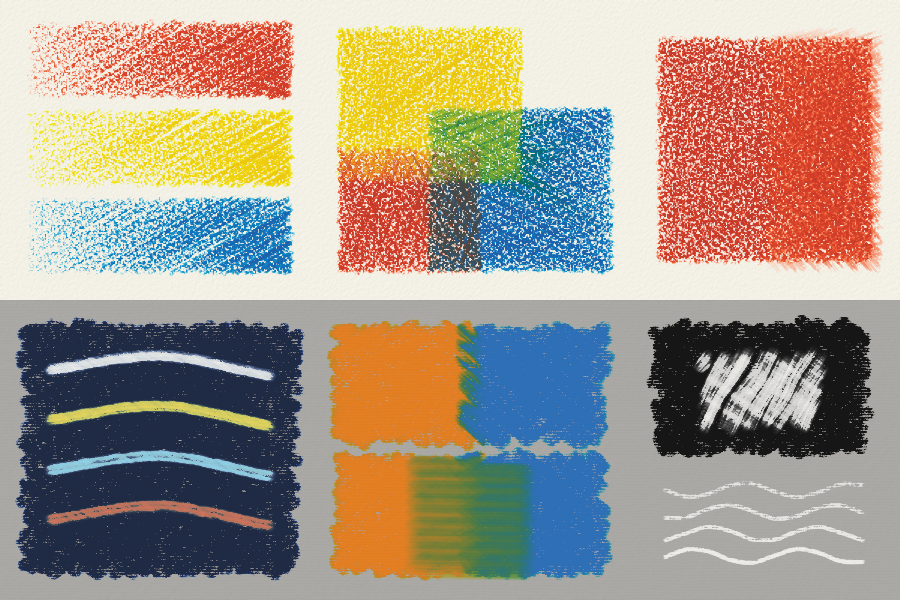
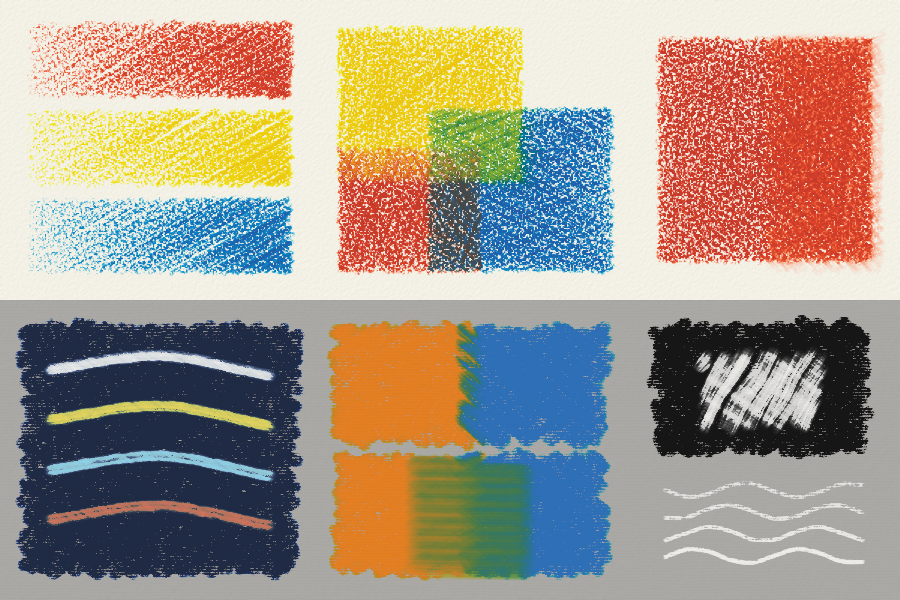
A firm pencil smears wax a pixel or two, and leaves what it drags (#20)
* Lay what a polishing tip drags where it lifts off

A firm pencil over a waxy layer drags part of it along; what the tip
still carried when the stroke ended left the paper with it, so short
firm strokes wore the layer away. It is now laid on the marked paper
under the tip where it lifts off; only off the sheet is it lost.

Claude-Session: https://claude.ai/code/session_01EHReoi1LTNPtq461jGULpV

* A firm pencil smears wax a pixel or two, and leaves what it drags

What a polishing tip dragged was laid back over more than its own
width, and what it still carried at the end of a stroke left the paper
with it: short firm strokes wore a waxed layer away. Laying the rest
down at lift-off alone left a blob at the end of every stroke, so the
tip now also lays what it drags back four times sooner. Burnishing
closes the white specks as before, and carries less colour past the
edge of a patch.

Also files eight issues found while drawing the first full pictures.

Claude-Session: https://claude.ai/code/session_01EHReoi1LTNPtq461jGULpV

---------

diff --git a/fusain/_engine.py b/fusain/_engine.py
@@ -110,10 +110,11 @@ BURNISH_FROM = 0.6
 BURNISH = 1.5
 #: Polishing also smears the waxy layer: of what the paper holds there, the
 #: tip drags along this share at full pressure in one pass, and lays this
-#: share of what it drags back down over each of its own widths, valleys
-#: included.
+#: many times what it drags back down over each of its own widths, valleys
+#: included: within a pixel or two, so that it closes the white specks next
+#: to it without carrying colour far.
 BURNISH_LIFT = 0.6
-BURNISH_LAY = 0.8
+BURNISH_LAY = 4.0
 #: A ballpoint pen. Its ball is hard and small: at full pressure it reaches
 #: this far down the tooth (times what the paper gives, as a tip does), and
 #: a light touch reaches nearly as far (far more than in proportion): a
@@ -248,6 +249,40 @@ def burnish(held, press, drag, iy, ix, polish, lay):
 
 
 @njit(cache=True, error_model="numpy")
+def set_down(held, cover, drag, x, y, tx, ty, wide, long, rounded):
+    """Where the tip lifts off, at (``x``, ``y``), lay what it still drags
+    (``drag``, packed as the held layer is) on the marked paper under it.
+    Returns the volume it could not lay: all of it, if no marked paper of
+    the sheet is under the tip."""
+    if drag[IV] <= 0.0:
+        return 0.0
+    height, width = cover.shape
+    bound = max(wide, long)
+    x0 = max(int(math.floor(x - bound)), 0)
+    x1 = min(int(math.ceil(x + bound)), width)
+    y0 = max(int(math.floor(y - bound)), 0)
+    y1 = min(int(math.ceil(y + bound)), height)
+    under = 0.0
+    for iy in range(y0, y1):
+        for ix in range(x0, x1):
+            if cover[iy, ix] > 0.0:
+                under += tip_bearing(
+                    ix + 0.5 - x, iy + 0.5 - y, tx, ty, wide, long, rounded
+                )[1]
+    if under <= 0.0:
+        return drag[IV]
+    for iy in range(y0, y1):
+        for ix in range(x0, x1):
+            if cover[iy, ix] > 0.0:
+                edge = tip_bearing(
+                    ix + 0.5 - x, iy + 0.5 - y, tx, ty, wide, long, rounded
+                )[1]
+                for part in range(HELD):
+                    held[iy, ix, part] += drag[part] * edge / under
+    return 0.0
+
+
+@njit(cache=True, error_model="numpy")
 def settle_dust(fresh, cover, fixed, under, loose, k, s, sheen, xs, ys, bound):
     """At the end of a pass, put its dust (``fresh``, a volume per pixel) on
     top of the dust that was there, which goes under it, and leave ``fresh``
@@ -333,7 +368,7 @@ def lay_stroke(
     it flat (``press``) and smears it along.
 
     Returns the volume the tip has lost: what it laid, less what it has
-    dragged off the paper and still carries.
+    dragged off the sheet.
     """
     height, width = tooth.shape
     flat, lead, wear, worn, spread, tilt = (
@@ -367,6 +402,9 @@ def lay_stroke(
     # what a tip that polishes drags along
     drag = np.zeros(HELD)
     total = 0.0
+    # where the tip last bore, and how wide it was there
+    at_x, at_y, at_tx, at_ty = xs[0], ys[0], 1.0, 0.0
+    wide, long = 0.5 * flat * spread + 0.5, 0.5 * flat + 0.5
     for i in range(xs.shape[0]):
         pressure = pressures[i]
         step = steps[i]
@@ -374,6 +412,7 @@ def lay_stroke(
             continue
         x, y = xs[i], ys[i]
         tx, ty = heading(xs, ys, i)
+        at_x, at_y, at_tx, at_ty = x, y, tx, ty
         if wear > 0.0:  # the flat grows with what the tip has laid
             flat = min((start + wear * max(worn + total, 0.0)) ** (1.0 / 3.0), lead)
         wide, long = 0.5 * flat * spread + 0.5, 0.5 * flat + 0.5
@@ -439,8 +478,11 @@ def lay_stroke(
                 total += dv
     if binding < 1.0:  # (else there is no dust to settle)
         settle_dust(fresh, cover, fixed, under, loose, k, s, sheen, xs, ys, reached)
-    # (what the tip still drags at the end has left the paper with it)
-    return total - drag[IV]
+    # what the tip still drags it leaves where it lifts off; only off the
+    # sheet does it leave the paper with it
+    return total - set_down(
+        held, cover, drag, at_x, at_y, at_tx, at_ty, wide, long, rounded
+    )
 
 
 @njit(cache=True, error_model="numpy")

diff --git a/tests/test_colour.py b/tests/test_colour.py
@@ -290,3 +290,49 @@ def test_coloured_pencils_and_media_by_name():
         red.with_(wax=1.5)
     with pytest.raises(ValueError, match="#rrggbb"):
         pencils.coloured("scarlet")
+
+
+# --------------------------------------------------------------------------
+# what a firm tip drags along
+
+
+def _short_firm_strokes(sheet, medium, count=300, seed=5) -> list[float]:
+    """Short strokes pressed hard, all over the patch, every way."""
+    rng = np.random.default_rng(seed)
+    laid = []
+    for _ in range(count):
+        x, y = rng.uniform(45, 155), rng.uniform(45, 105)
+        turn = rng.uniform(0.0, np.pi)
+        dx, dy = 8 * np.cos(turn), 8 * np.sin(turn)
+        laid.append(
+            sheet.stroke([(x - dx, y - dy), (x, y), (x + dx, y + dy)], medium, 0.95, 4)
+        )
+    return laid
+
+
+def test_a_firm_pencil_does_not_wear_a_waxed_layer_away():
+    sheet = _sheet()
+    red = pencils.coloured(RED)
+    _layers(sheet, red, 3, 0.6)
+    before, tone = _total(sheet), _luminance(sheet)
+    laid = _short_firm_strokes(sheet, pencils.BLENDER)
+    # the blender drags the layer about, but where it lifts off it leaves
+    # what it dragged: it never comes away with any of it
+    assert min(laid) >= 0.0
+    assert _total(sheet) == pytest.approx(before + sum(laid), rel=1e-6)
+    assert _total(sheet) >= before
+    assert _luminance(sheet) < 1.02 * tone
+
+
+def test_what_a_tip_drags_off_the_sheet_is_counted():
+    sheet = _sheet()
+    red = pencils.coloured(RED)
+    sheet.shade((0, 20, 200, 130), red, 0.6)
+    sheet.shade((0, 20, 200, 130), red, 0.6, angle=-25)
+    before = _total(sheet)
+    laid = [
+        sheet.stroke([(120, y), (240, y)], pencils.BLENDER, 1.0, 5)
+        for y in range(30, 120, 6)
+    ]
+    # (what it dragged past the edge is gone with it, and is in the count)
+    assert _total(sheet) == pytest.approx(before + sum(laid), rel=1e-6)

diff --git a/CHANGELOG.md b/CHANGELOG.md
@@ -6,6 +6,14 @@ and the project adheres to [Semantic Versioning](https://semver.org/).
 
 ## [Unreleased]
 
+### Fixed
+
+- A firm pencil no longer wears a waxed layer away. Pressed hard over wax, a
+  tip drags part of the layer along; what it still carried when the stroke
+  ended left the paper with it, so many short firm strokes stripped the
+  layer. It is now laid where the tip lifts off; only what is dragged off the
+  sheet is lost.
+
 ### Added
 
 - Ballpoint pens, `fusain.pens` (`pens.BLUE`, `pens.BLACK`, `pens.RED`,
